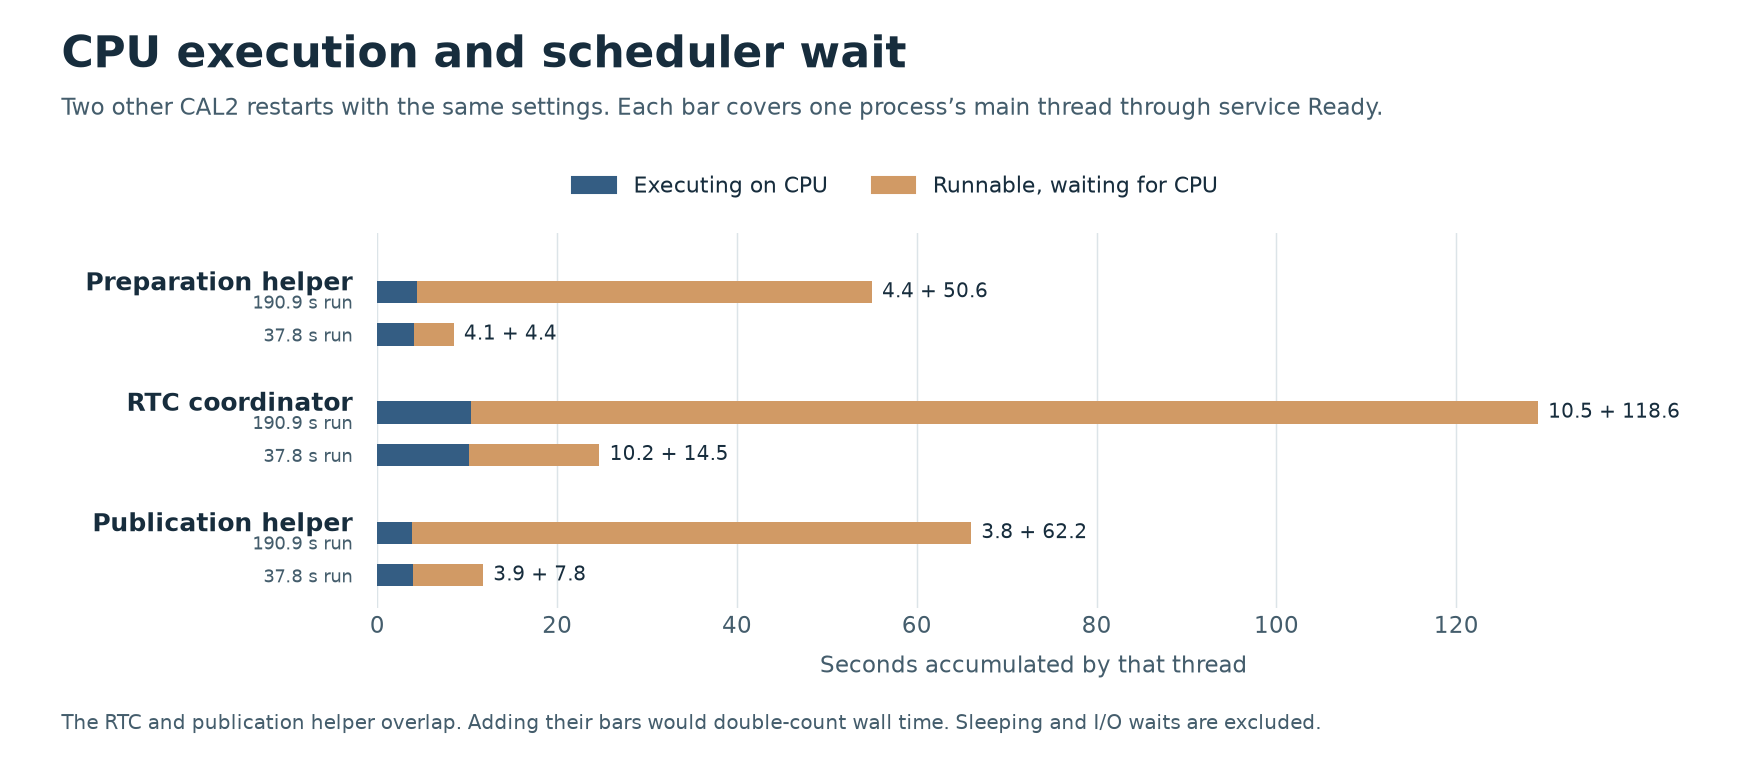
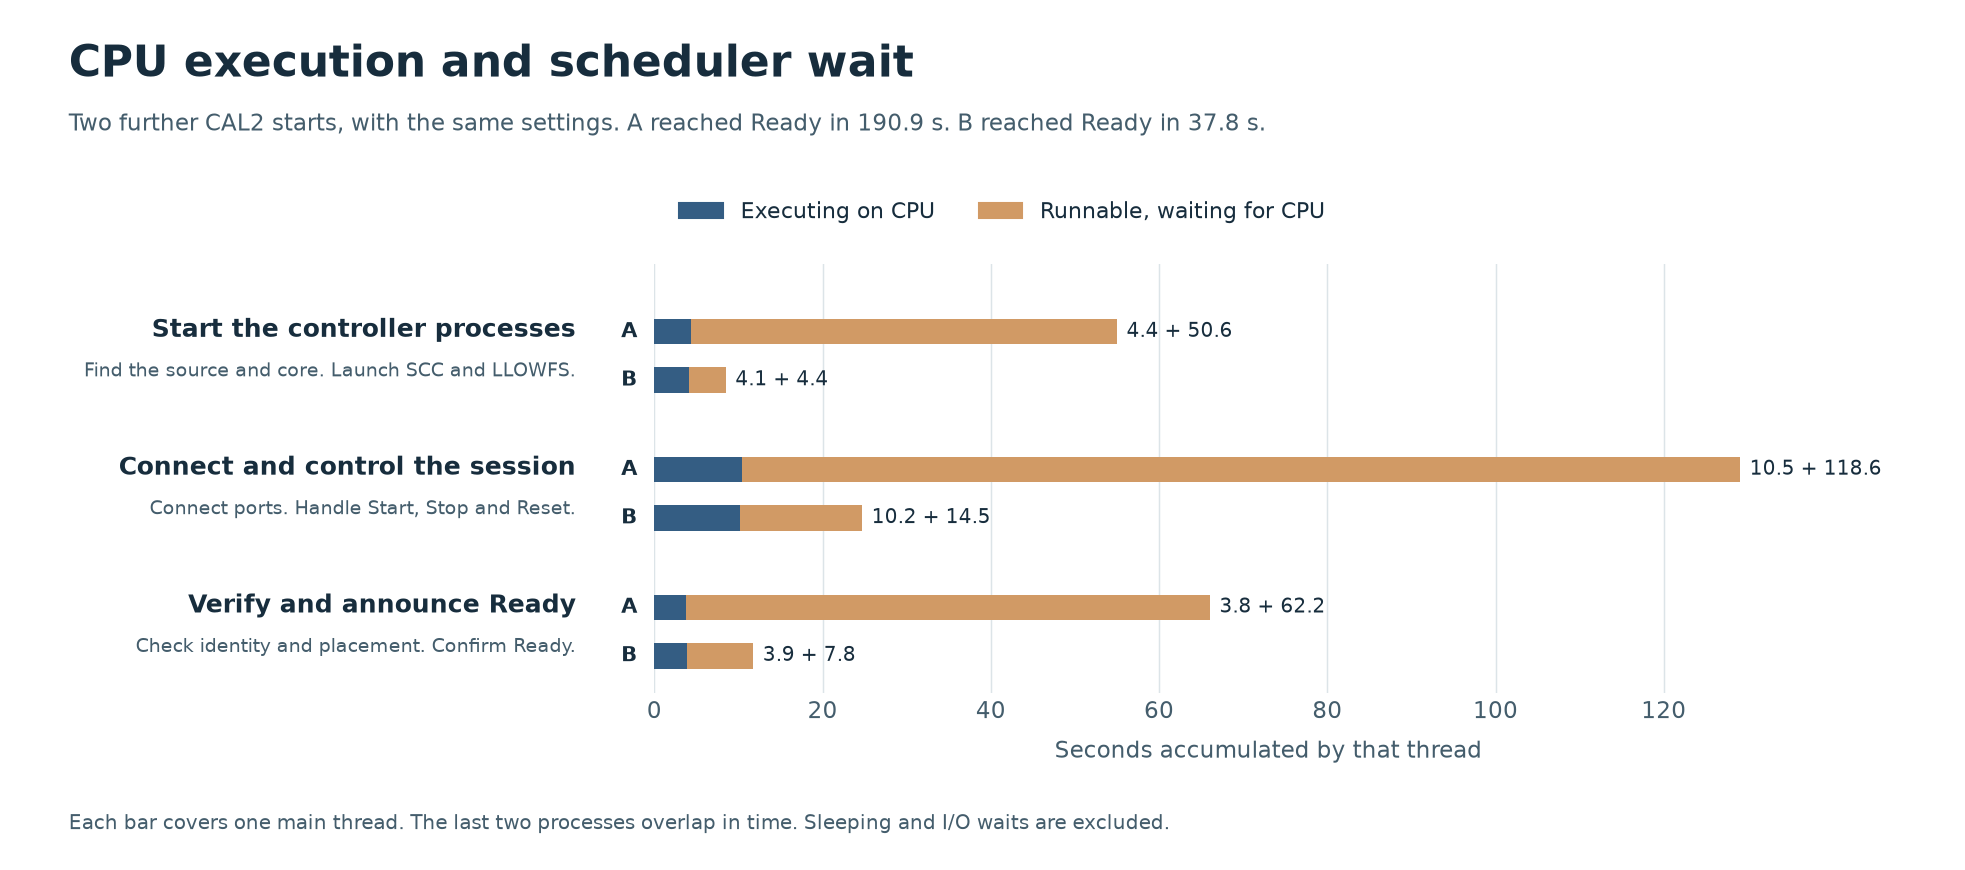
Label CAL2 startup processes by the job each performs

diff --git a/docs/validation/independent-source-20261123/phases.md b/docs/validation/independent-source-20261123/phases.md
@@ -11,6 +11,19 @@ The [zoomable event trace](cal2-timeline.trace.json) opens in Perfetto or anothe
 Chrome Trace Event viewer. Each graph slice includes the duration the application
 measured inside the call. The slice edges use journal receipt times.
 
+## What the three process names mean
+
+| Name in the measurements | What it does in this instrument | When it runs |
+| --- | --- | --- |
+| **Preparation helper** (`prepare`) | Reads the CAL2 deployment, identifies the existing private core and simulator, starts the SCC and LLOWFS controller processes, and writes their process identities and the configuration for this RTC launch. | A one-time systemd command. It exits before the RTC main process starts. |
+| **RTC coordinator** (`MediaSession`) | Finds the declared camera and controller ports, creates the PipeWire Links between them, keeps the controllers held until admission, and handles Start, Stop and Reset. The separate SCC and LLOWFS processes perform the image calculations. | The main RTC process. It stays alive during observing. |
+| **Publication helper** (`publish`) | Connects to that particular RTC, waits for its connected and held state, verifies actual CPU and thread placement and process identities, sends Admit and asks for fresh Status. It writes the discovery record that tools use to find the ready session. Camera frames come from the independent source throughout. | A one-time systemd command that runs alongside the coordinator. Its successful return completes service startup. |
+
+The repeated 190.9 s and 37.8 s labels on the earlier CPU chart identified
+the **total startup time for two different launches**. In the chart below,
+A and B identify those same launches on every row. The numbers at the end
+of each bar give that thread's CPU execution and runnable wait, in seconds.
+
 ## Service phases
 
 The top lane partitions the operator's wait. The rows below it show processes
@@ -20,11 +33,11 @@ time waiting for another process.
 
 | Phase and time from request | Elapsed | What happens | Why it matters |
 | --- | ---: | --- | --- |
-| Prepare, 0–14.57 s | 14.57 s | The systemd preparation helper validates the deployment, identifies the running core and source, starts the SCC and LLOWFS controller services, and writes the configuration for this RTC invocation. The RTC main process starts at the end of this interval. | A replacement RTC needs the identities of the processes and endpoints that exist now. Stale identifiers could attach it to the wrong instance. |
-| Initialize, 14.57–30.33 s | 15.77 s | The RTC constructs its MediaSession, opens its PipeWire connection and prepares its command handlers. A second systemd helper starts, checks the launch record and RTC process, and reaches its first logged endpoint wait. Both processes run during this interval. | The RTC needs a control endpoint that can receive a request and give a correlated reply. A new process ID alone cannot establish that. |
+| Start the controllers, 0–14.57 s | 14.57 s | The systemd preparation helper validates the deployment, identifies the running core and source, starts the SCC and LLOWFS controller services, and writes the configuration for this RTC invocation. The RTC main process starts at the end of this interval. | A replacement RTC needs the identities of the processes and endpoints that exist now. Stale identifiers could attach it to the wrong instance. |
+| Open RTC control, 14.57–30.33 s | 15.77 s | The RTC constructs its MediaSession, opens its PipeWire connection and prepares its command handlers. A second systemd helper starts, checks the launch record and RTC process, and reaches its first logged endpoint wait. Both processes run during this interval. | The RTC needs a control endpoint that can receive a request and give a correlated reply. A new process ID alone cannot establish that. |
 | Connect, 30.33–35.13 s | 4.79 s | The helper connects to the control endpoint belonging to the expected RTC process and instance. It then starts querying the session's preparation state. | Commands and status must come from this incarnation, especially when the previous RTC used the same node name. |
-| Check session preparation, 35.13–51.11 s | 15.99 s | The helper polls the native `Warmup` operation. MediaSession coordinates its graph owners, discovers endpoints, establishes the declared Links and confirms the execution groups are held. The positive reply still reports `Configuring`. The independent camera source keeps publishing. | A process can exist and a graph can execute locally while the wrong ports are linked or a controller is already running. This gate establishes the intended, connected, held session. |
-| Admit and publish Ready, 51.11–58.29 s | 7.17 s | The helper rechecks the process identities and actual placement, sends `Admit`, requires a fresh native `Status` confirming `Ready`, then publishes the discovery record. The service start request returns. | The operator can address this particular RTC and trust that its live session passed admission. `Ready` permits a later `Start`. |
+| Check that the Links exist and graphs are held, 35.13–51.11 s | 15.99 s | The helper polls the native `Warmup` operation. MediaSession coordinates its graph owners, discovers endpoints, establishes the declared Links and confirms the execution groups are held. The positive reply still reports `Configuring`. The independent camera source keeps publishing. | A process can exist and a graph can execute locally while the wrong ports are linked or a controller is already running. This gate establishes the intended, connected, held session. |
+| Confirm and announce Ready, 51.11–58.29 s | 7.17 s | The helper rechecks the process identities and actual placement, sends `Admit`, requires a fresh native `Status` confirming `Ready`, then publishes the discovery record. The service start request returns. | The operator can address this particular RTC and trust that its live session passed admission. `Ready` permits a later `Start`. |
 
 The trace records when the helper observes milestones. Owner preparation and
 Link establishment can begin before the helper starts polling. The last 7.17 s
